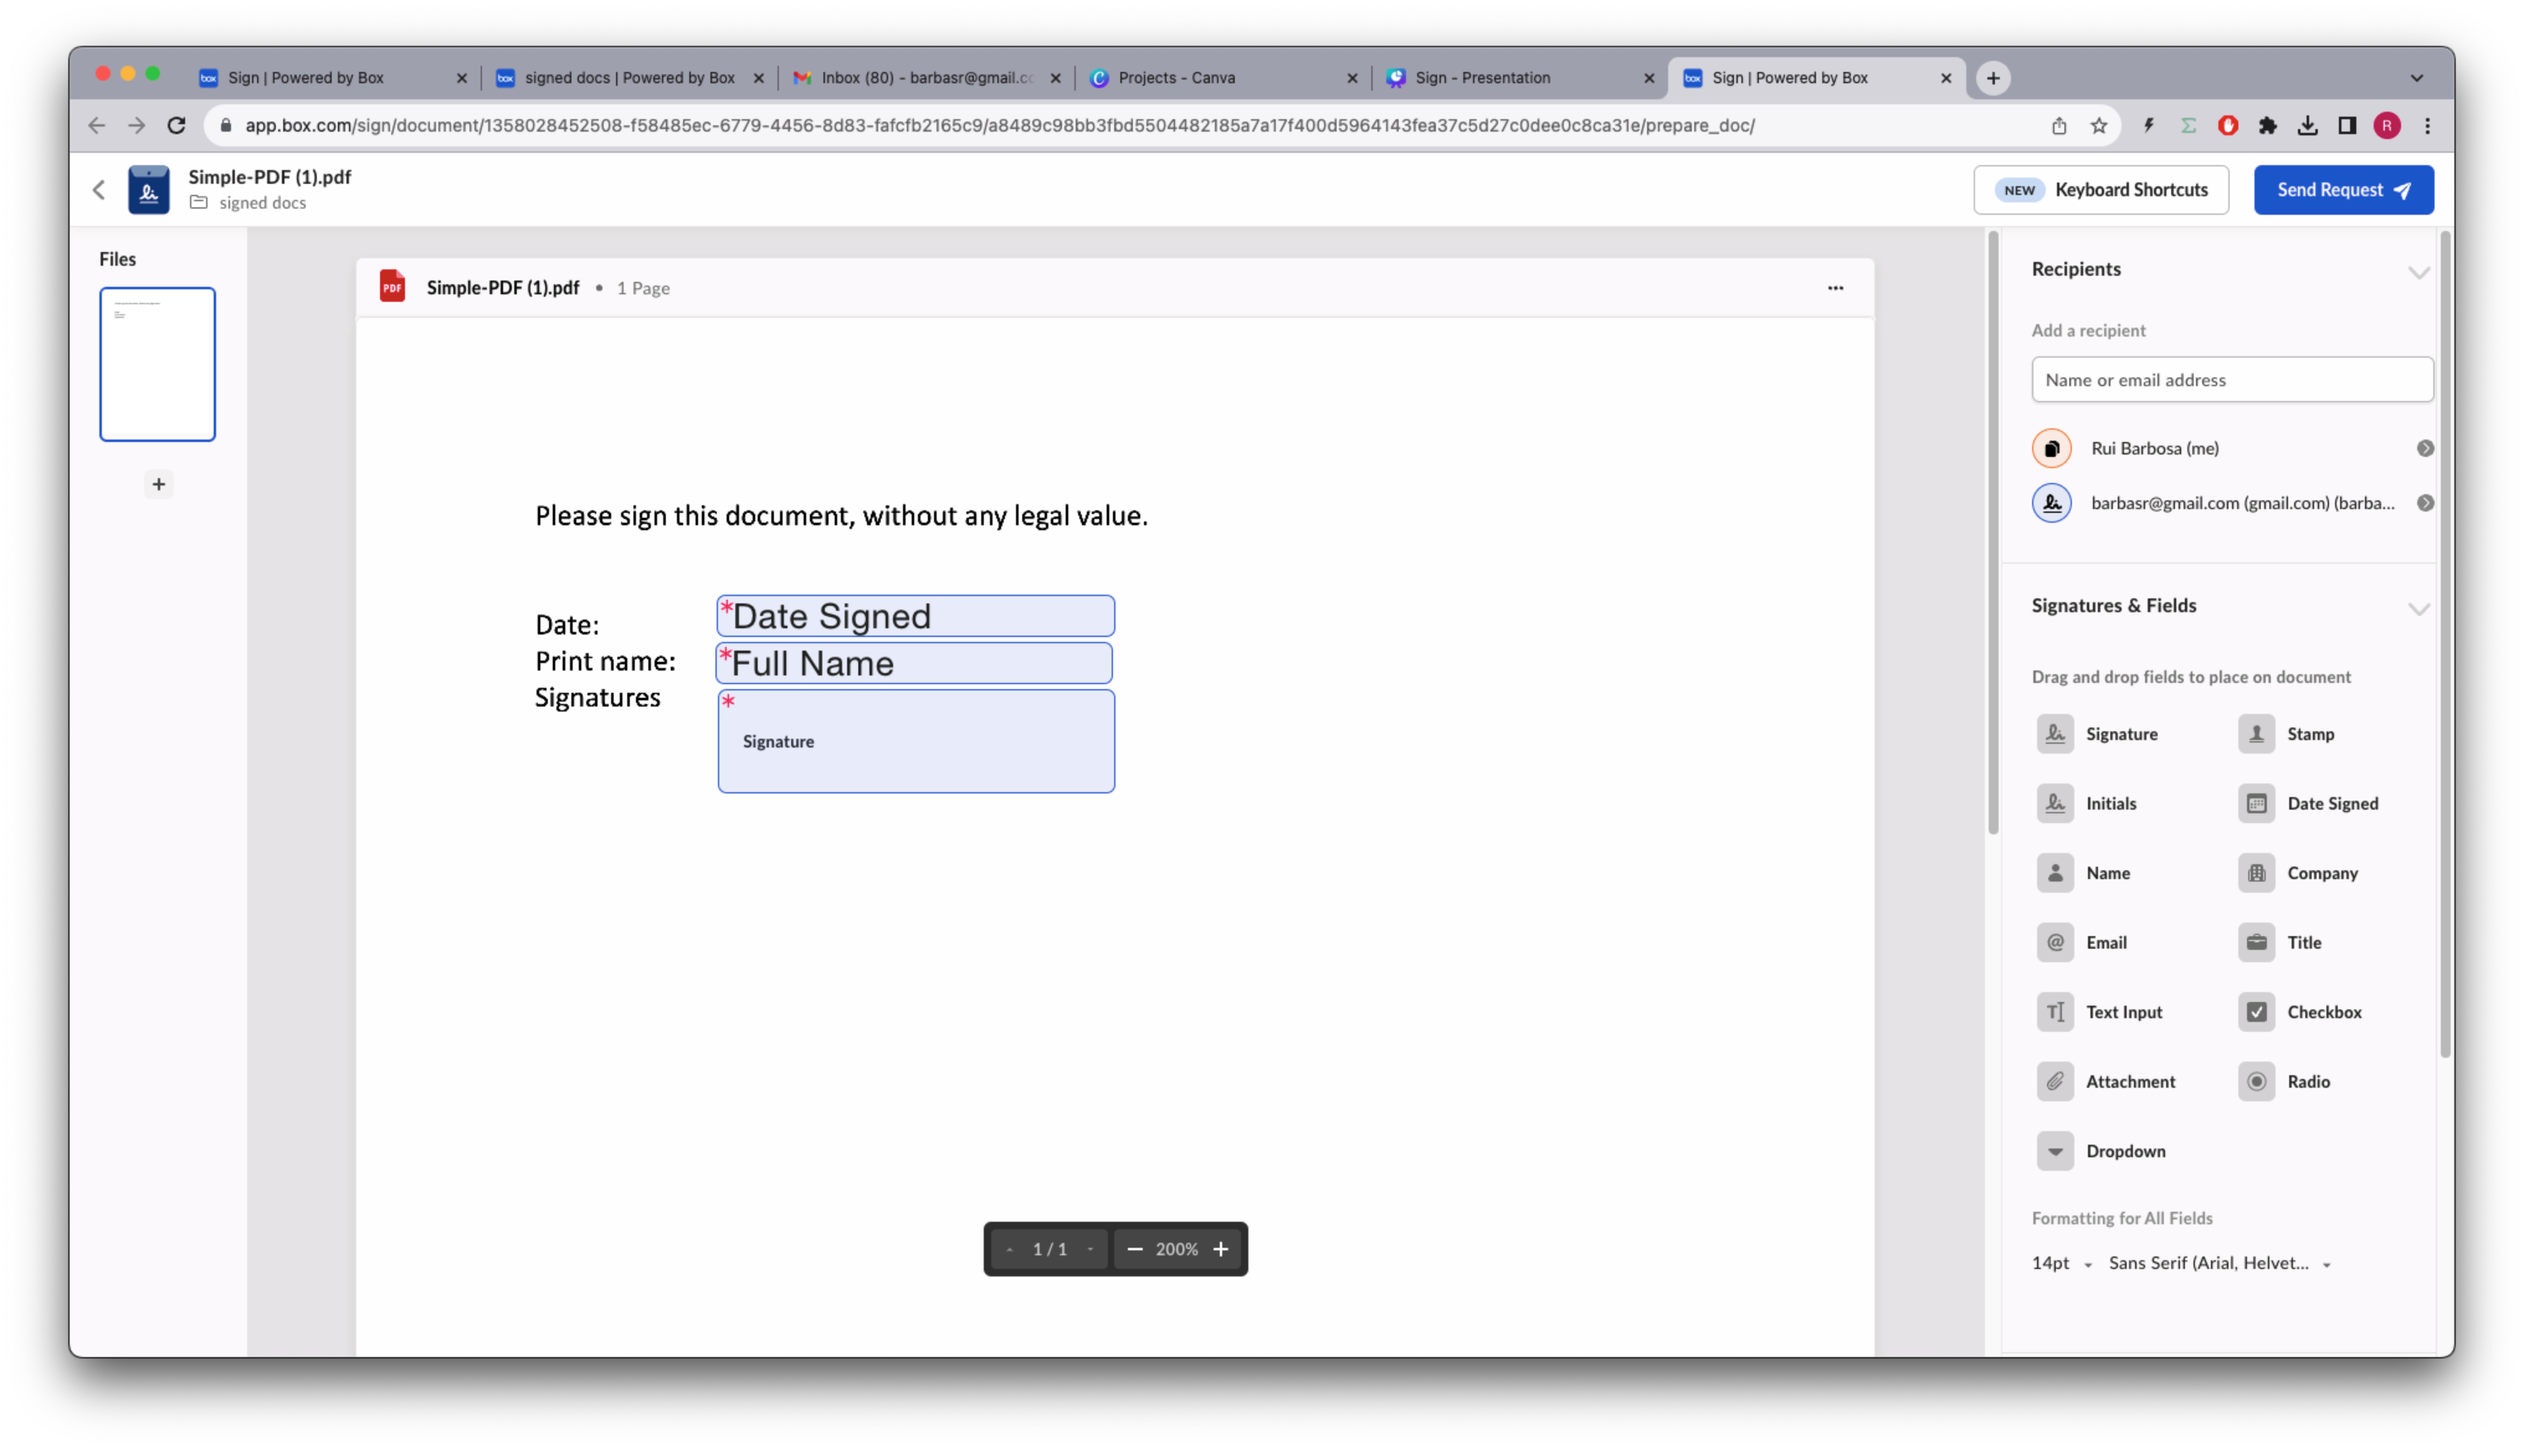
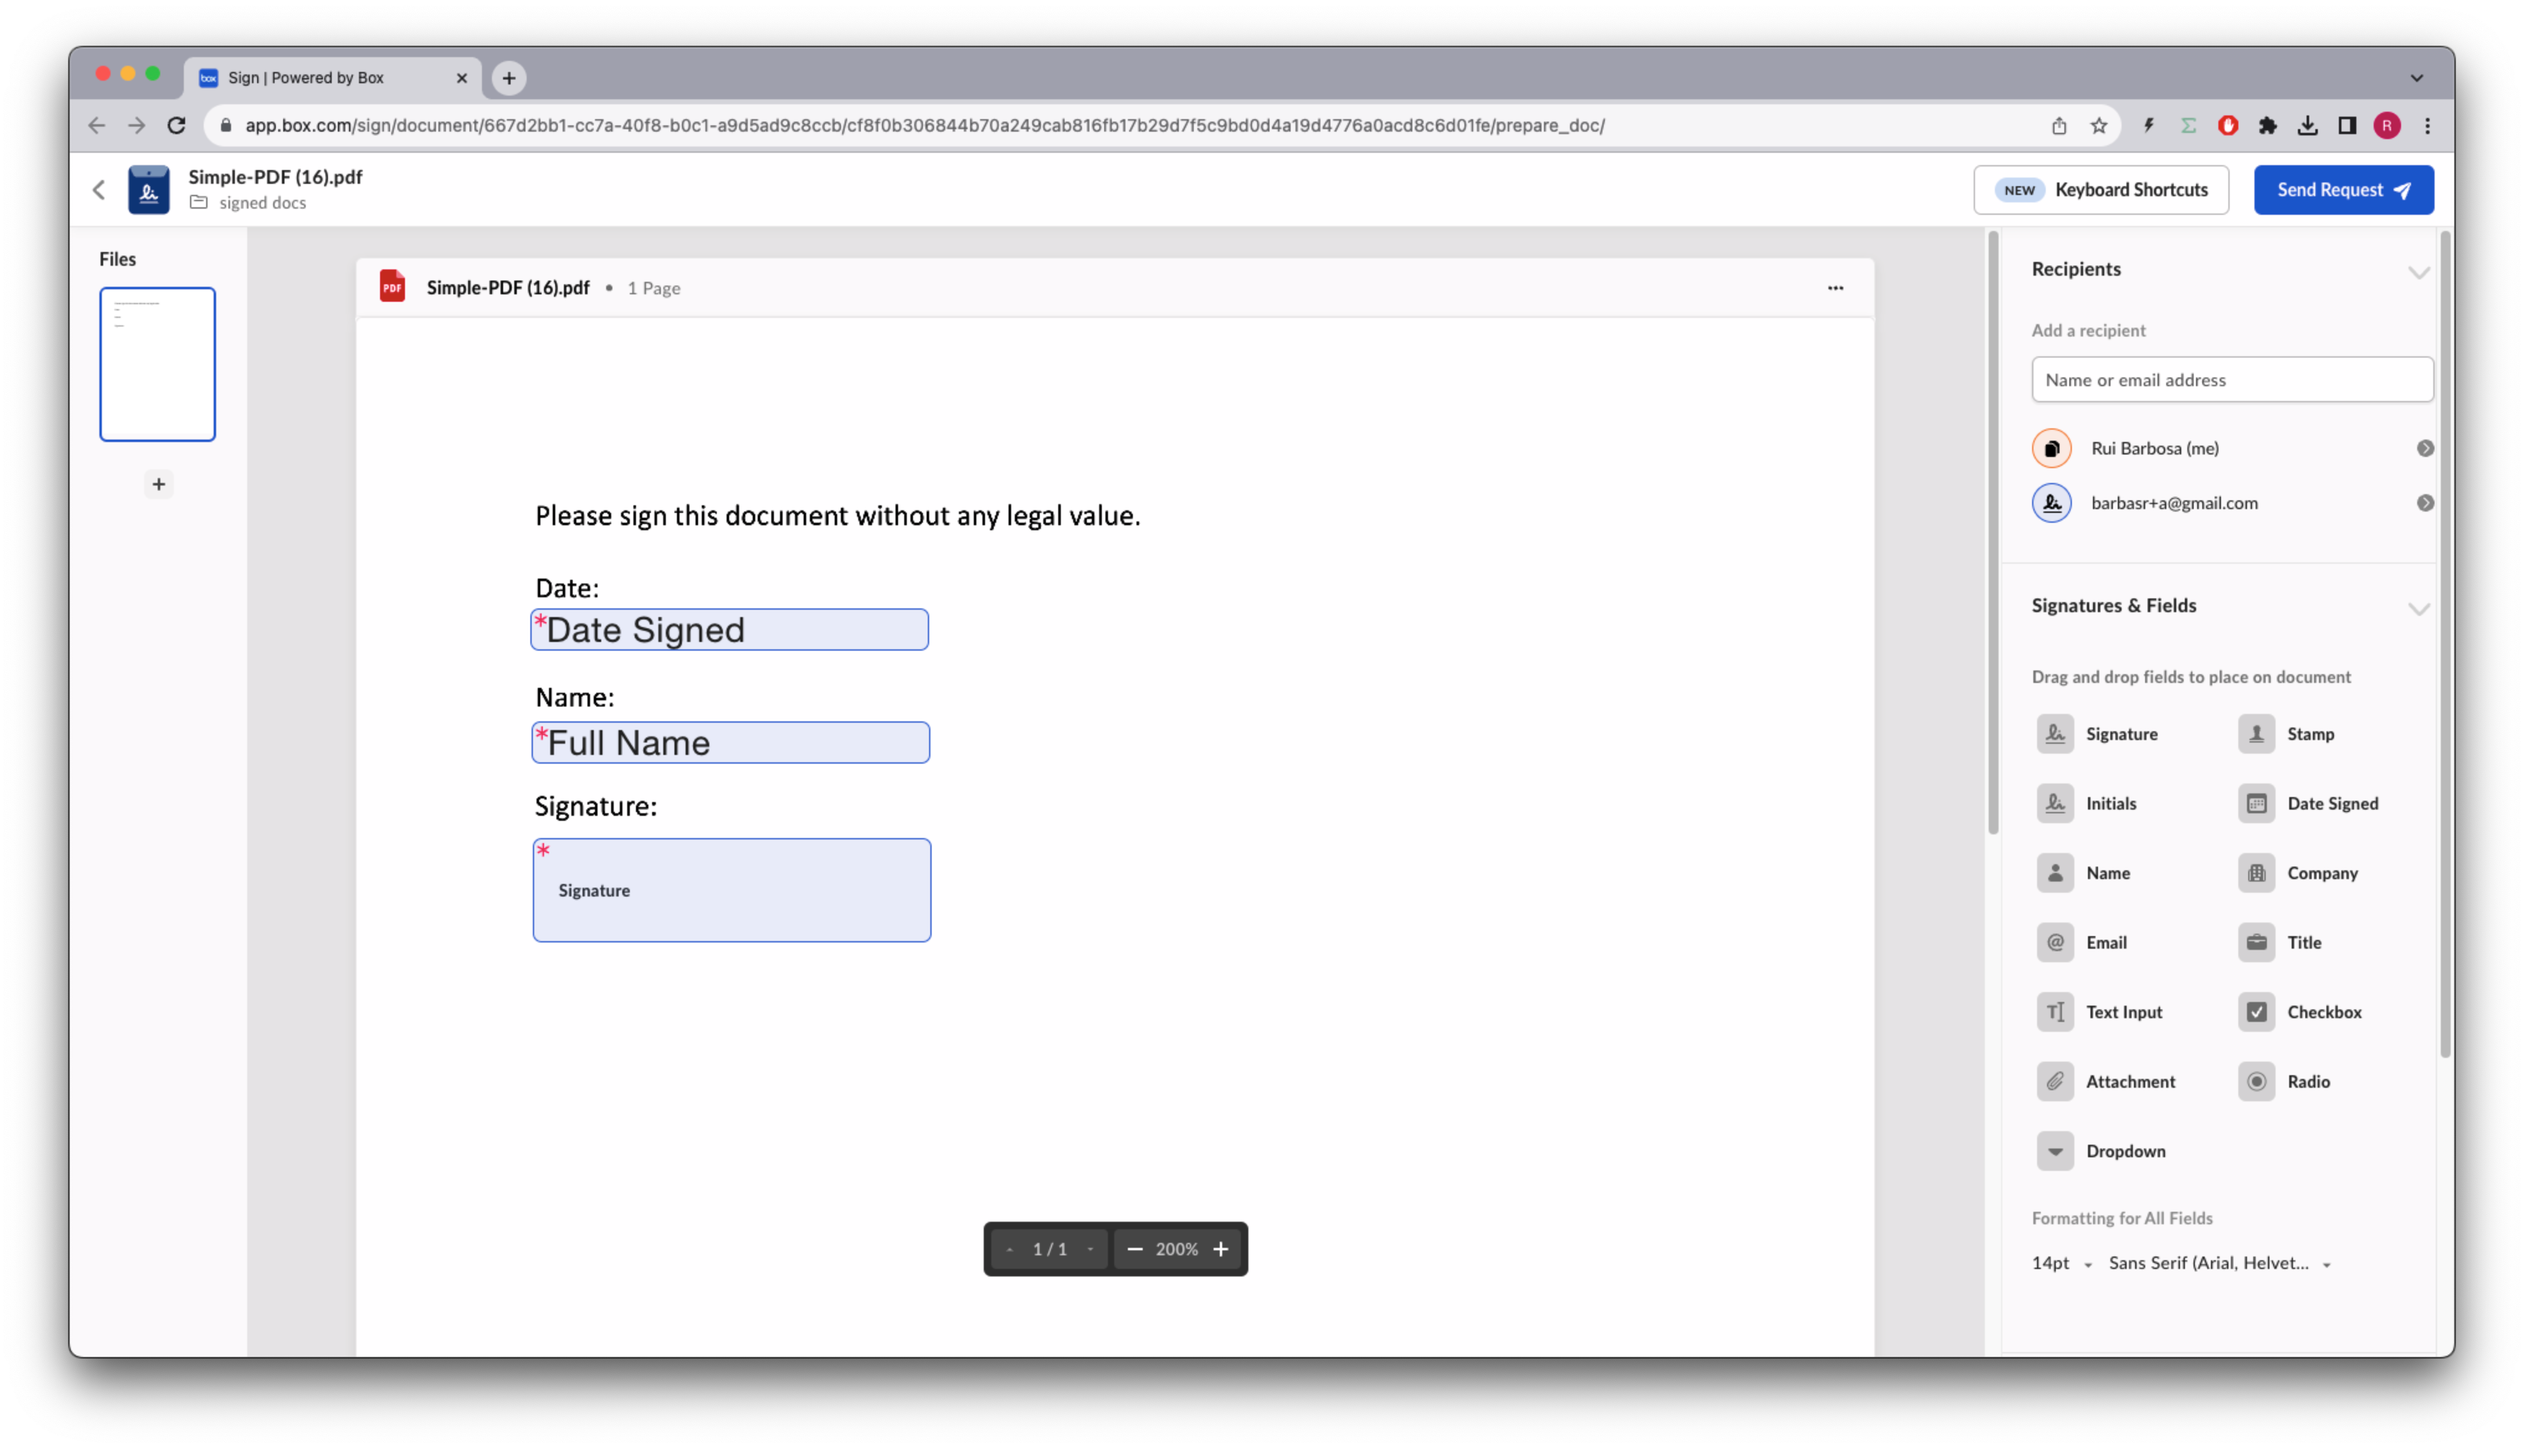
[Sign] more fixes

diff --git a/workshops/sign/sign_sln.py b/workshops/sign/sign_sln.py
@@ -24,7 +24,7 @@ SIMPLE_PDF = "1355143830404"
 SIMPLE_DOC = "1358077513913"
 CONTRACT = "1358047520478"
 
-SIGNER_A = "YOUR_EMAIL+A@gmail.com"
+SIGNER_A = "barbasr+A@gmail.com"
 SIGNER_A_PHONE = "+15554443322"
 
 SIGNER_B = "YOUR_EMAIL+B@gmail.com"
@@ -285,13 +285,13 @@ def main():
     # sign_pdf = sign_doc_single(client, SIMPLE_PDF, SIGN_DOCS_FOLDER, SIGNER_A)
     # check_sign_request(sign_pdf)
 
-    # # Simple sign a pdf request with preparation
-    # sign_pdf_prep = sign_doc_single(
-    #     client, SIMPLE_PDF, SIGN_DOCS_FOLDER, SIGNER_A, True
-    # )
-    # check_sign_request(sign_pdf_prep)
-    # if sign_pdf_prep.prepare_url is not None:
-    #     open_browser(sign_pdf_prep.prepare_url)
+    # Simple sign a pdf request with preparation
+    sign_pdf_prep = sign_doc_single(
+        client, SIMPLE_PDF, SIGN_DOCS_FOLDER, SIGNER_A, True
+    )
+    check_sign_request(sign_pdf_prep)
+    if sign_pdf_prep.prepare_url is not None:
+        open_browser(sign_pdf_prep.prepare_url)
 
     # # Multiple signers
     # sign_contract_multi = sign_contract(
